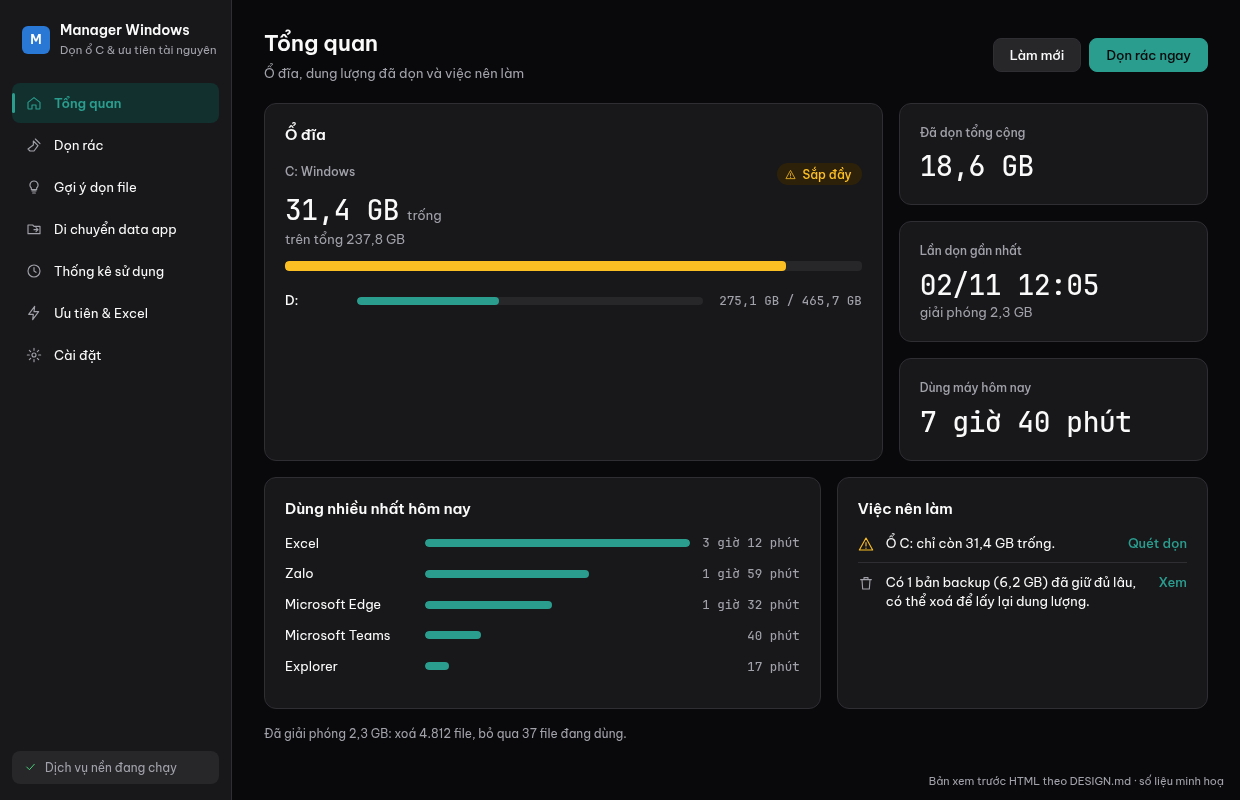
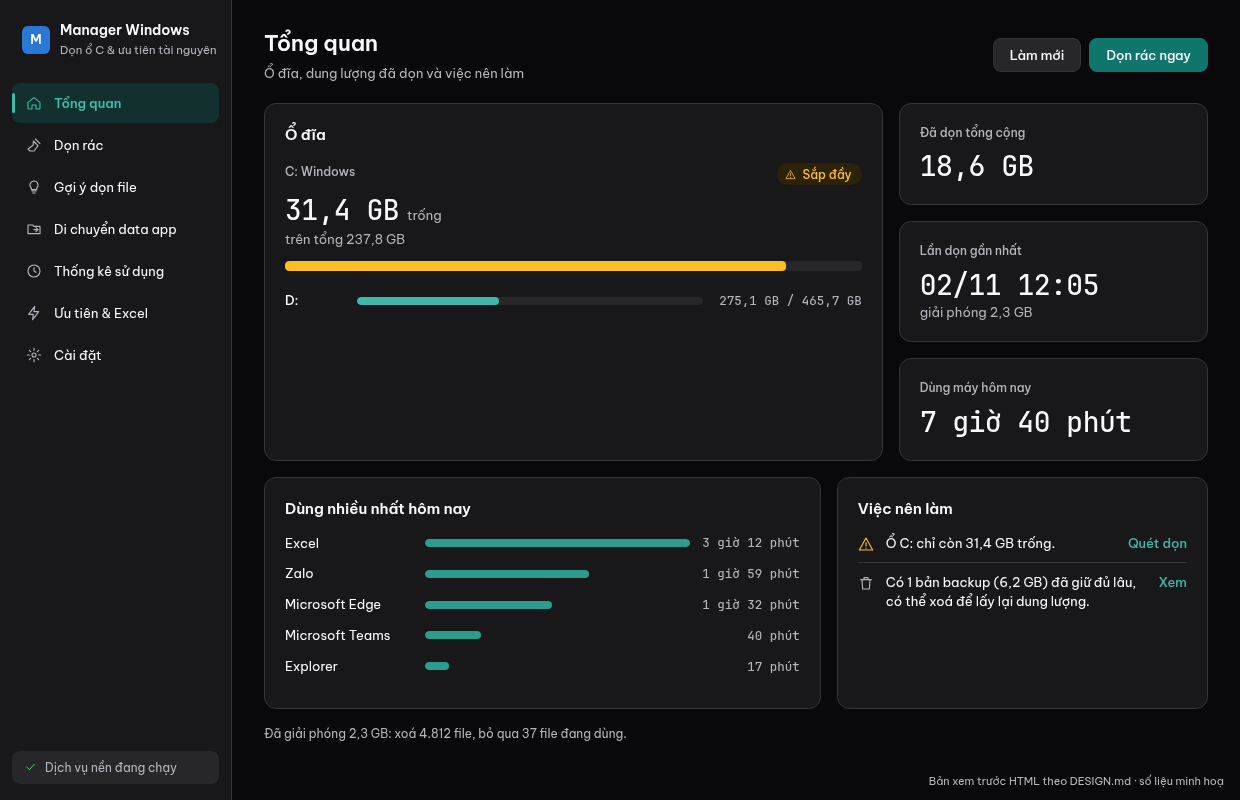
Chế độ tối: tăng tương phản chữ, hết chữ đen trên nền tối
Anh Quang báo chế độ tối có chữ đen khó nhìn.
- Nút chính: nền teal đậm (#0F766E), chữ trắng ở cả hai chế độ (5.5:1) thay
  cho chữ đen trên teal sáng. Tách màu nhấn thành AccentFill (nền nút) và
  Accent (chữ/biểu tượng; tối: #3FB8A9, 7.3:1).
- Chữ phụ tối sáng hơn (#B4B4BC, 8.6:1), đường kẻ rõ hơn.
- Ép màu chữ theo theme cho nội dung trang (TabControl), bảng (chữ, nền hàng,
  tiêu đề cột) và ghi đè màu hệ thống (ControlText, Window, Highlight, Info…)
  trong bảng màu tối, để điều khiển chuẩn không còn chữ đen trên nền tối.
- Ghi log có nạp được theme Fluent không để dò lỗi trên máy người dùng.
- DESIGN.md, prompt Stitch, ảnh xem trước cập nhật theo màu mới.
- build-release.sh tắt build server của dotnet để không để lại zombie.

Changed region(s): [[0.8581, 0.0312, 0.9806, 0.0938], [0.2758, 0.3438, 0.3984, 0.4062]]

diff --git a/docs/design/preview/overview-dark.html b/docs/design/preview/overview-dark.html
@@ -4,8 +4,8 @@
 @font-face{font-family:"Be Vietnam Pro";src:url("../../../src/ManagerWindows.App/Assets/Fonts/BeVietnamPro-Medium.ttf");font-weight:500}
 @font-face{font-family:"Be Vietnam Pro";src:url("../../../src/ManagerWindows.App/Assets/Fonts/BeVietnamPro-SemiBold.ttf");font-weight:600}
 @font-face{font-family:"JetBrains Mono";src:url("../../../src/ManagerWindows.App/Assets/Fonts/JetBrainsMono-Medium.ttf");font-weight:500}
-.light{--canvas:#FAFAFA;--surface:#FFFFFF;--raised:#F4F4F5;--ink:#18181B;--muted:#71717A;--line:#E4E4E7;--accent:#0F766E;--on:#FFF;--wash:#E6F2F1;--chart:#118F80;--good:#15803D;--goodw:#DCFCE7;--warn:#B45309;--warnw:#FEF3C7;--crit:#B91C1C;--critw:#FEE2E2}
-.dark{--canvas:#09090B;--surface:#18181B;--raised:#27272A;--ink:#FAFAFA;--muted:#A1A1AA;--line:#2E2E33;--accent:#2A9D8F;--on:#09090B;--wash:#12302D;--chart:#2A9D8F;--good:#4ADE80;--goodw:#0F2A1A;--warn:#FBBF24;--warnw:#2E2109;--crit:#F87171;--critw:#2F1313}
+.light{--fill:#0F766E;--canvas:#FAFAFA;--surface:#FFFFFF;--raised:#F4F4F5;--ink:#18181B;--muted:#71717A;--line:#E4E4E7;--accent:#0F766E;--on:#FFF;--wash:#E6F2F1;--chart:#118F80;--good:#15803D;--goodw:#DCFCE7;--warn:#B45309;--warnw:#FEF3C7;--crit:#B91C1C;--critw:#FEE2E2}
+.dark{--fill:#0F766E;--canvas:#09090B;--surface:#18181B;--raised:#27272A;--ink:#FAFAFA;--muted:#B4B4BC;--line:#34343A;--accent:#3FB8A9;--on:#FFFFFF;--wash:#12302D;--chart:#2A9D8F;--good:#4ADE80;--goodw:#0F2A1A;--warn:#FBBF24;--warnw:#2E2109;--crit:#F87171;--critw:#2F1313}
 *{box-sizing:border-box} body{margin:0;width:1240px;height:800px;display:grid;grid-template-columns:232px 1fr;background:var(--canvas);color:var(--ink);font:13px/1.45 "Be Vietnam Pro";}
 .ic{width:16px;height:16px;fill:none;stroke:currentColor;stroke-width:1.7;stroke-linecap:round;stroke-linejoin:round;flex:none}
 aside{background:var(--surface);border-right:1px solid var(--line);padding:20px 12px 16px;display:flex;flex-direction:column}
@@ -16,7 +16,7 @@ aside{background:var(--surface);border-right:1px solid var(--line);padding:20px 
 .pill{margin-top:auto;background:var(--raised);border-radius:8px;padding:8px 12px;display:flex;gap:8px;align-items:center;font-size:12px;color:var(--muted)} .pill .ic{color:var(--good);width:13px}
 main{padding:28px 32px 16px;overflow:hidden} header{display:flex;justify-content:space-between;align-items:center;margin-bottom:20px}
 h1{font-size:22px;font-weight:600;margin:0} .muted{color:var(--muted)}
-.btn{height:34px;padding:0 16px;border-radius:8px;font:500 13px "Be Vietnam Pro";border:1px solid var(--line);background:var(--raised);color:var(--ink);margin-left:8px} .btn.pri{background:var(--accent);border-color:var(--accent);color:var(--on)}
+.btn{height:34px;padding:0 16px;border-radius:8px;font:500 13px "Be Vietnam Pro";border:1px solid var(--line);background:var(--raised);color:var(--ink);margin-left:8px} .btn.pri{background:var(--fill);border-color:var(--fill);color:#FFFFFF}
 .grid{display:grid;gap:16px;margin-bottom:16px} .g21{grid-template-columns:2fr 1fr} .g32{grid-template-columns:3fr 2fr}
 .card{background:var(--surface);border:1px solid var(--line);border-radius:12px;padding:20px} .ct{font-size:15px;font-weight:600}
 .over{font-size:12px;font-weight:500;color:var(--muted)} .big{font:500 28px "JetBrains Mono";letter-spacing:-.5px} .num{font:500 12.5px "JetBrains Mono"}

diff --git a/docs/design/preview/overview-light.html b/docs/design/preview/overview-light.html
@@ -4,8 +4,8 @@
 @font-face{font-family:"Be Vietnam Pro";src:url("../../../src/ManagerWindows.App/Assets/Fonts/BeVietnamPro-Medium.ttf");font-weight:500}
 @font-face{font-family:"Be Vietnam Pro";src:url("../../../src/ManagerWindows.App/Assets/Fonts/BeVietnamPro-SemiBold.ttf");font-weight:600}
 @font-face{font-family:"JetBrains Mono";src:url("../../../src/ManagerWindows.App/Assets/Fonts/JetBrainsMono-Medium.ttf");font-weight:500}
-.light{--canvas:#FAFAFA;--surface:#FFFFFF;--raised:#F4F4F5;--ink:#18181B;--muted:#71717A;--line:#E4E4E7;--accent:#0F766E;--on:#FFF;--wash:#E6F2F1;--chart:#118F80;--good:#15803D;--goodw:#DCFCE7;--warn:#B45309;--warnw:#FEF3C7;--crit:#B91C1C;--critw:#FEE2E2}
-.dark{--canvas:#09090B;--surface:#18181B;--raised:#27272A;--ink:#FAFAFA;--muted:#A1A1AA;--line:#2E2E33;--accent:#2A9D8F;--on:#09090B;--wash:#12302D;--chart:#2A9D8F;--good:#4ADE80;--goodw:#0F2A1A;--warn:#FBBF24;--warnw:#2E2109;--crit:#F87171;--critw:#2F1313}
+.light{--fill:#0F766E;--canvas:#FAFAFA;--surface:#FFFFFF;--raised:#F4F4F5;--ink:#18181B;--muted:#71717A;--line:#E4E4E7;--accent:#0F766E;--on:#FFF;--wash:#E6F2F1;--chart:#118F80;--good:#15803D;--goodw:#DCFCE7;--warn:#B45309;--warnw:#FEF3C7;--crit:#B91C1C;--critw:#FEE2E2}
+.dark{--fill:#0F766E;--canvas:#09090B;--surface:#18181B;--raised:#27272A;--ink:#FAFAFA;--muted:#B4B4BC;--line:#34343A;--accent:#3FB8A9;--on:#FFFFFF;--wash:#12302D;--chart:#2A9D8F;--good:#4ADE80;--goodw:#0F2A1A;--warn:#FBBF24;--warnw:#2E2109;--crit:#F87171;--critw:#2F1313}
 *{box-sizing:border-box} body{margin:0;width:1240px;height:800px;display:grid;grid-template-columns:232px 1fr;background:var(--canvas);color:var(--ink);font:13px/1.45 "Be Vietnam Pro";}
 .ic{width:16px;height:16px;fill:none;stroke:currentColor;stroke-width:1.7;stroke-linecap:round;stroke-linejoin:round;flex:none}
 aside{background:var(--surface);border-right:1px solid var(--line);padding:20px 12px 16px;display:flex;flex-direction:column}
@@ -16,7 +16,7 @@ aside{background:var(--surface);border-right:1px solid var(--line);padding:20px 
 .pill{margin-top:auto;background:var(--raised);border-radius:8px;padding:8px 12px;display:flex;gap:8px;align-items:center;font-size:12px;color:var(--muted)} .pill .ic{color:var(--good);width:13px}
 main{padding:28px 32px 16px;overflow:hidden} header{display:flex;justify-content:space-between;align-items:center;margin-bottom:20px}
 h1{font-size:22px;font-weight:600;margin:0} .muted{color:var(--muted)}
-.btn{height:34px;padding:0 16px;border-radius:8px;font:500 13px "Be Vietnam Pro";border:1px solid var(--line);background:var(--raised);color:var(--ink);margin-left:8px} .btn.pri{background:var(--accent);border-color:var(--accent);color:var(--on)}
+.btn{height:34px;padding:0 16px;border-radius:8px;font:500 13px "Be Vietnam Pro";border:1px solid var(--line);background:var(--raised);color:var(--ink);margin-left:8px} .btn.pri{background:var(--fill);border-color:var(--fill);color:#FFFFFF}
 .grid{display:grid;gap:16px;margin-bottom:16px} .g21{grid-template-columns:2fr 1fr} .g32{grid-template-columns:3fr 2fr}
 .card{background:var(--surface);border:1px solid var(--line);border-radius:12px;padding:20px} .ct{font-size:15px;font-weight:600}
 .over{font-size:12px;font-weight:500;color:var(--muted)} .big{font:500 28px "JetBrains Mono";letter-spacing:-.5px} .num{font:500 12.5px "JetBrains Mono"}

diff --git a/src/ManagerWindows.App/Themes/Palette.Dark.xaml b/src/ManagerWindows.App/Themes/Palette.Dark.xaml
@@ -5,12 +5,13 @@
     <SolidColorBrush x:Key="Surface" Color="#18181B" />
     <SolidColorBrush x:Key="Raised" Color="#27272A" />
     <SolidColorBrush x:Key="Ink" Color="#FAFAFA" />
-    <SolidColorBrush x:Key="InkMuted" Color="#A1A1AA" />
-    <SolidColorBrush x:Key="Hairline" Color="#2E2E33" />
-    <SolidColorBrush x:Key="Accent" Color="#2A9D8F" />
-    <SolidColorBrush x:Key="AccentHover" Color="#34B3A3" />
-    <SolidColorBrush x:Key="AccentPressed" Color="#238579" />
-    <SolidColorBrush x:Key="AccentOn" Color="#09090B" />
+    <SolidColorBrush x:Key="InkMuted" Color="#B4B4BC" />
+    <SolidColorBrush x:Key="Hairline" Color="#34343A" />
+    <SolidColorBrush x:Key="Accent" Color="#3FB8A9" />
+    <SolidColorBrush x:Key="AccentFill" Color="#0F766E" />
+    <SolidColorBrush x:Key="AccentFillHover" Color="#11806F" />
+    <SolidColorBrush x:Key="AccentFillPressed" Color="#0B6B62" />
+    <SolidColorBrush x:Key="AccentOn" Color="#FFFFFF" />
     <SolidColorBrush x:Key="AccentWash" Color="#12302D" />
     <SolidColorBrush x:Key="ChartBar" Color="#2A9D8F" />
     <SolidColorBrush x:Key="Good" Color="#4ADE80" />
@@ -19,4 +20,24 @@
     <SolidColorBrush x:Key="WarningWash" Color="#2E2109" />
     <SolidColorBrush x:Key="Critical" Color="#F87171" />
     <SolidColorBrush x:Key="CriticalWash" Color="#2F1313" />
+    <!-- Màu hệ thống cho điều khiển chuẩn: chữ sáng trên nền tối -->
+    <SolidColorBrush x:Key="{x:Static SystemColors.ControlTextBrushKey}" Color="#FAFAFA" />
+    <SolidColorBrush x:Key="{x:Static SystemColors.WindowTextBrushKey}" Color="#FAFAFA" />
+    <SolidColorBrush x:Key="{x:Static SystemColors.WindowBrushKey}" Color="#18181B" />
+    <SolidColorBrush x:Key="{x:Static SystemColors.ControlBrushKey}" Color="#27272A" />
+    <SolidColorBrush x:Key="{x:Static SystemColors.ControlLightBrushKey}" Color="#34343A" />
+    <SolidColorBrush x:Key="{x:Static SystemColors.ControlLightLightBrushKey}" Color="#3F3F46" />
+    <SolidColorBrush x:Key="{x:Static SystemColors.ControlDarkBrushKey}" Color="#52525B" />
+    <SolidColorBrush x:Key="{x:Static SystemColors.GrayTextBrushKey}" Color="#B4B4BC" />
+    <SolidColorBrush x:Key="{x:Static SystemColors.HighlightBrushKey}" Color="#0F766E" />
+    <SolidColorBrush x:Key="{x:Static SystemColors.HighlightTextBrushKey}" Color="#FFFFFF" />
+    <SolidColorBrush x:Key="{x:Static SystemColors.InactiveSelectionHighlightBrushKey}" Color="#34343A" />
+    <SolidColorBrush x:Key="{x:Static SystemColors.InactiveSelectionHighlightTextBrushKey}" Color="#FAFAFA" />
+    <SolidColorBrush x:Key="{x:Static SystemColors.InfoBrushKey}" Color="#27272A" />
+    <SolidColorBrush x:Key="{x:Static SystemColors.InfoTextBrushKey}" Color="#FAFAFA" />
+    <SolidColorBrush x:Key="{x:Static SystemColors.MenuBrushKey}" Color="#18181B" />
+    <SolidColorBrush x:Key="{x:Static SystemColors.MenuTextBrushKey}" Color="#FAFAFA" />
+    <SolidColorBrush x:Key="{x:Static SystemColors.MenuBarBrushKey}" Color="#18181B" />
+    <SolidColorBrush x:Key="{x:Static SystemColors.MenuHighlightBrushKey}" Color="#27272A" />
+    <SolidColorBrush x:Key="{x:Static SystemColors.HotTrackBrushKey}" Color="#3FB8A9" />
 </ResourceDictionary>

diff --git a/src/ManagerWindows.App/Themes/Controls.xaml b/src/ManagerWindows.App/Themes/Controls.xaml
@@ -85,16 +85,19 @@
             </Setter.Value>
         </Setter>
     </Style>
+    <!-- Nút chính: nền teal đậm, chữ trắng ở cả hai chế độ (≥ 4.5:1) -->
     <Style x:Key="Primary" TargetType="Button" BasedOn="{StaticResource BtnBase}">
-        <Setter Property="Background" Value="{DynamicResource Accent}" />
-        <Setter Property="BorderBrush" Value="{DynamicResource Accent}" />
+        <Setter Property="Background" Value="{DynamicResource AccentFill}" />
+        <Setter Property="BorderBrush" Value="{DynamicResource AccentFill}" />
         <Setter Property="Foreground" Value="{DynamicResource AccentOn}" />
         <Style.Triggers>
             <Trigger Property="IsMouseOver" Value="True">
-                <Setter Property="Background" Value="{DynamicResource AccentHover}" />
+                <Setter Property="Background" Value="{DynamicResource AccentFillHover}" />
+                <Setter Property="BorderBrush" Value="{DynamicResource AccentFillHover}" />
             </Trigger>
             <Trigger Property="IsPressed" Value="True">
-                <Setter Property="Background" Value="{DynamicResource AccentPressed}" />
+                <Setter Property="Background" Value="{DynamicResource AccentFillPressed}" />
+                <Setter Property="BorderBrush" Value="{DynamicResource AccentFillPressed}" />
             </Trigger>
         </Style.Triggers>
     </Style>

diff --git a/src/ManagerWindows.App/Views/MainWindow.xaml b/src/ManagerWindows.App/Views/MainWindow.xaml
@@ -67,8 +67,10 @@
         </Style>
     </Window.Resources>
 
+    <!-- Foreground đặt tại chỗ: nội dung trang thừa hưởng màu chữ từ TabControl, không để style mặc định (chữ đen) quyết định -->
     <TabControl x:Name="Nav" SelectedIndex="{Binding SelectedTab}" ItemContainerStyle="{StaticResource NavItem}"
-                SelectionChanged="Nav_SelectionChanged" Background="Transparent" BorderThickness="0" Padding="0">
+                SelectionChanged="Nav_SelectionChanged" Background="Transparent" BorderThickness="0" Padding="0"
+                Foreground="{DynamicResource Ink}">
         <TabControl.Template>
             <ControlTemplate TargetType="TabControl">
                 <Grid>

diff --git a/src/ManagerWindows.App/Themes/Palette.Light.xaml b/src/ManagerWindows.App/Themes/Palette.Light.xaml
@@ -8,8 +8,9 @@
     <SolidColorBrush x:Key="InkMuted" Color="#71717A" />
     <SolidColorBrush x:Key="Hairline" Color="#E4E4E7" />
     <SolidColorBrush x:Key="Accent" Color="#0F766E" />
-    <SolidColorBrush x:Key="AccentHover" Color="#115E59" />
-    <SolidColorBrush x:Key="AccentPressed" Color="#134E4A" />
+    <SolidColorBrush x:Key="AccentFill" Color="#0F766E" />
+    <SolidColorBrush x:Key="AccentFillHover" Color="#115E59" />
+    <SolidColorBrush x:Key="AccentFillPressed" Color="#134E4A" />
     <SolidColorBrush x:Key="AccentOn" Color="#FFFFFF" />
     <SolidColorBrush x:Key="AccentWash" Color="#E6F2F1" />
     <SolidColorBrush x:Key="ChartBar" Color="#118F80" />

diff --git a/src/ManagerWindows.App/Controls/Controls.cs b/src/ManagerWindows.App/Controls/Controls.cs
@@ -1,5 +1,6 @@
 using System.Windows;
 using System.Windows.Controls;
+using System.Windows.Controls.Primitives;
 
 namespace ManagerWindows.App.Controls;
 
@@ -56,5 +57,18 @@ public static class Table
         g.BorderThickness = new Thickness(0);
         g.Background = System.Windows.Media.Brushes.Transparent;
         g.SetResourceReference(DataGrid.HorizontalGridLinesBrushProperty, "Hairline");
+
+        // Màu chữ/nền hàng và tiêu đề cột theo bảng màu của app, để chế độ tối không ra chữ đen.
+        g.SetResourceReference(Control.ForegroundProperty, "Ink");
+        g.SetResourceReference(DataGrid.RowBackgroundProperty, "Surface");
+        g.SetResourceReference(DataGrid.AlternatingRowBackgroundProperty, "Surface");
+        var baseHeader = g.TryFindResource(typeof(DataGridColumnHeader)) as Style;
+        var header = new Style(typeof(DataGridColumnHeader), baseHeader);
+        header.Setters.Add(new Setter(Control.ForegroundProperty, new DynamicResourceExtension("InkMuted")));
+        header.Setters.Add(new Setter(Control.BackgroundProperty, new DynamicResourceExtension("Surface")));
+        header.Setters.Add(new Setter(Control.BorderBrushProperty, new DynamicResourceExtension("Hairline")));
+        header.Setters.Add(new Setter(Control.FontWeightProperty, FontWeights.Medium));
+        header.Setters.Add(new Setter(Control.PaddingProperty, new Thickness(10, 8, 10, 8)));
+        g.ColumnHeaderStyle = header;
     }
 }

diff --git a/src/ManagerWindows.App/Services/ThemeManager.cs b/src/ManagerWindows.App/Services/ThemeManager.cs
@@ -36,6 +36,10 @@ public static class ThemeManager
         if (old != null) dicts[dicts.IndexOf(old)] = fresh;
         else dicts.Add(fresh);
 
+        // Ghi lại để dò lỗi giao diện trên máy người dùng: bộ theme Fluent có được nạp không.
+        var fluent = dicts.Any(d => d.Source?.OriginalString.Contains("Fluent", StringComparison.OrdinalIgnoreCase) == true);
+        Log.Info("theme", $"setting={setting} dark={IsDark} fluent={fluent} os={Environment.OSVersion.Version}");
+
         if (!_listening)
         {
             _listening = true;

diff --git a/docs/design/DESIGN.md b/docs/design/DESIGN.md
@@ -26,7 +26,7 @@ Chỉ có một màu nhấn duy nhất (Pine Teal, độ bão hoà < 80%), khôn
 - **Charcoal Ink** (#18181B): chữ chính, số liệu lớn
 - **Muted Steel** (#71717A): chữ phụ, nhãn, mô tả, thời gian (4.8:1 trên nền trắng)
 - **Whisper Border** (#E4E4E7): viền thẻ 1px, đường kẻ bảng
-- **Pine Teal** (#0F766E): màu nhấn duy nhất cho nút chính, mục menu đang chọn, viền focus, liên kết (chữ trắng trên nền này đạt 5.5:1)
+- **Pine Teal** (#0F766E): màu nhấn duy nhất. Dùng làm nền nút chính (chữ trắng 5.5:1) và cho chữ liên kết, mục menu đang chọn, viền focus
 - **Pine Wash** (#E6F2F1): nền mục menu đang chọn, nền huy hiệu "đã xem"
 - **Chart Teal** (#118F80): cột biểu đồ (đã qua validator: độ sáng, độ bão hoà, tương phản ≥ 3:1 trên #FFFFFF)
 
@@ -35,9 +35,12 @@ Chỉ có một màu nhấn duy nhất (Pine Teal, độ bão hoà < 80%), khôn
 - **Night Surface** (#18181B): nền thẻ, bảng, sidebar
 - **Raised Night** (#27272A): nền nút phụ, hàng hover, rãnh thanh tiến trình
 - **Frost Ink** (#FAFAFA): chữ chính
-- **Muted Ash** (#A1A1AA): chữ phụ
-- **Night Border** (#2E2E33): viền thẻ, đường kẻ
-- **Pine Teal Glow** (#2A9D8F): màu nhấn (chữ #09090B trên nền này đạt 6.6:1); dùng chung cho cột biểu đồ (đã qua validator trên #18181B)
+- **Muted Ash** (#B4B4BC): chữ phụ (8.6:1 trên Night Surface)
+- **Night Border** (#34343A): viền thẻ, đường kẻ
+- **Pine Teal Ink** (#3FB8A9): màu nhấn cho chữ, biểu tượng, mục menu đang chọn, vạch chỉ báo (7.3:1 trên #18181B)
+- **Pine Teal Fill** (#0F766E; hover #11806F; nhấn #0B6B62): nền nút chính, **chữ trắng** (5.5:1). Không đặt chữ đen trên nền teal: đạt chuẩn trên giấy nhưng khó đọc khi nhìn thật
+- **Chart Teal Night** (#2A9D8F): cột biểu đồ (đã qua validator trên #18181B)
+- **Màu hệ thống:** ghi đè ControlText, Window, Highlight, Info… để chữ của điều khiển chuẩn luôn sáng trên nền tối
 - **Pine Wash Night** (#12302D): nền mục menu đang chọn
 
 ### Trạng thái (light / dark)

diff --git a/docs/design/stitch-prompts.md b/docs/design/stitch-prompts.md
@@ -17,11 +17,11 @@ Cách dùng:
 - Background: Canvas Mist (#FAFAFA); dark: Canvas Night (#09090B)
 - Surface: Pure Surface (#FFFFFF) for cards, tables and sidebar; dark: Night Surface (#18181B)
 - Raised Surface (#F4F4F5) for secondary buttons, row hover and progress tracks; dark: Raised Night (#27272A)
-- Primary Accent: Pine Teal (#0F766E) for the single primary button per page, selected navigation item, focus ring, links; dark: Pine Teal Glow (#2A9D8F)
+- Primary Accent: Pine Teal (#0F766E) as primary button fill with white label text in both themes; accent text, icons and selected navigation item use Pine Teal (#0F766E) in light and Pine Teal Ink (#3FB8A9) in dark. Never black text on teal
 - Accent wash: Pine Wash (#E6F2F1) behind the selected navigation item
 - Text Primary: Charcoal Ink (#18181B); dark: Frost Ink (#FAFAFA)
-- Text Secondary: Muted Steel (#71717A); dark: Muted Ash (#A1A1AA)
-- Borders: Whisper Border (#E4E4E7) 1px; dark: Night Border (#2E2E33)
+- Text Secondary: Muted Steel (#71717A); dark: Muted Ash (#B4B4BC)
+- Borders: Whisper Border (#E4E4E7) 1px; dark: Night Border (#34343A)
 - Status: Healthy Green (#15803D), Amber Caution (#B45309), Signal Red (#B91C1C), always paired with an icon and a text label
 - Typography: Be Vietnam Pro for all UI text (Vietnamese diacritics), JetBrains Mono for large numbers and numeric table columns
 - Cards: generously rounded (12px), 1px border, no shadow (hierarchy via border and surface tone), 20px padding
